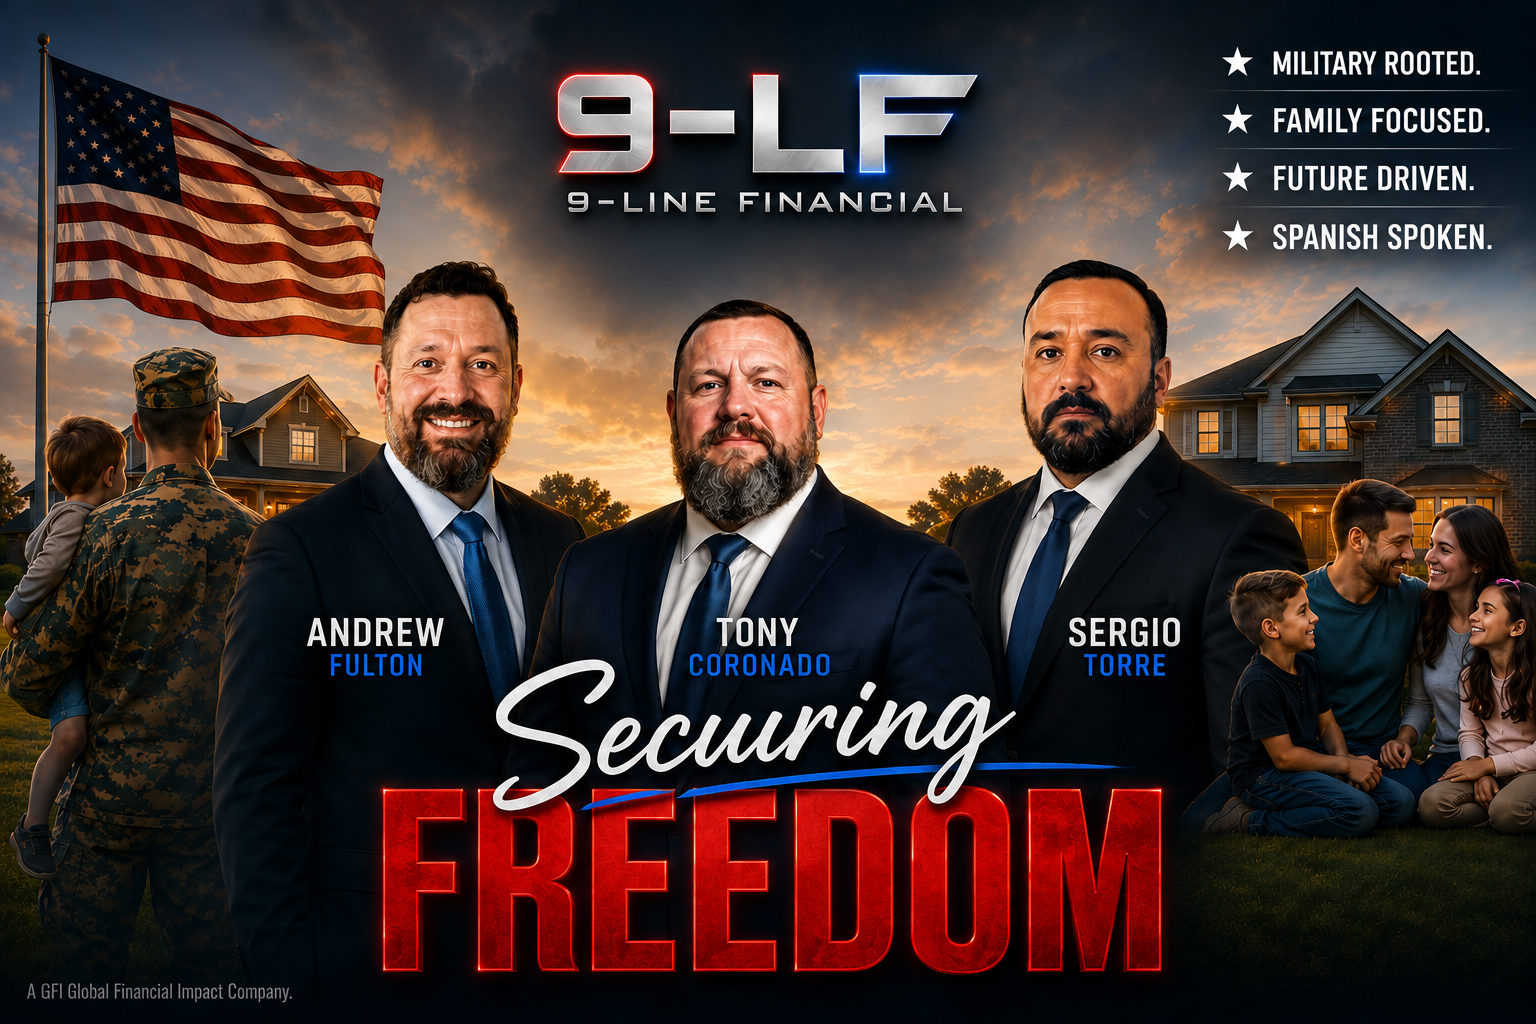
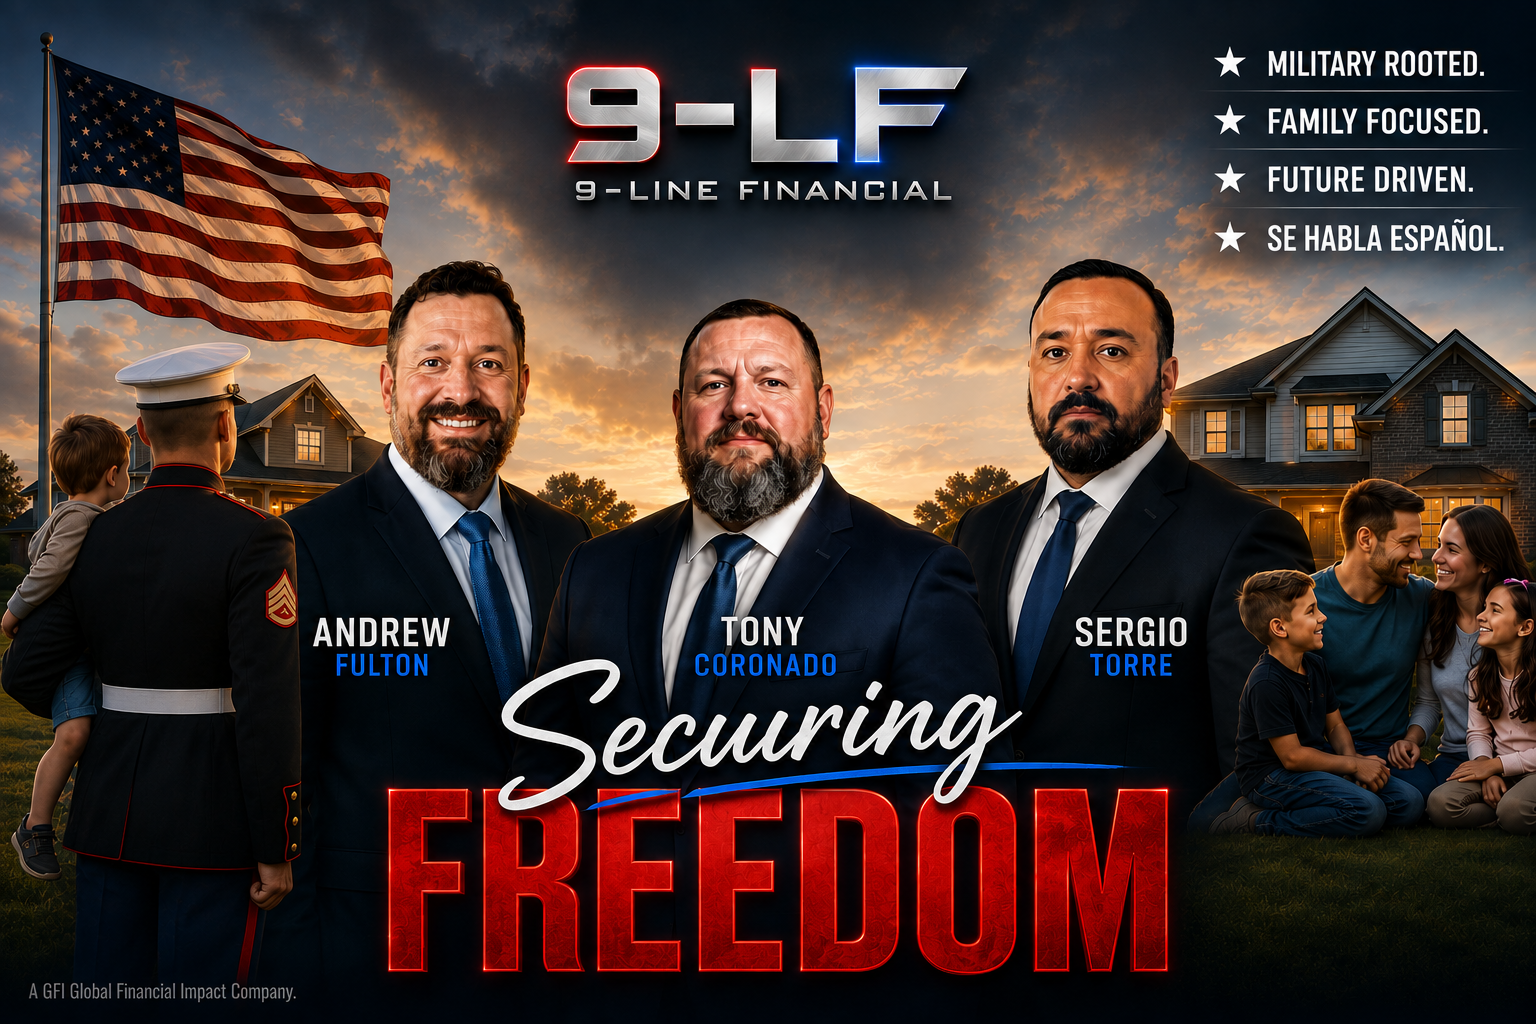
Add files via upload

diff --git a/index.html b/index.html
@@ -30,7 +30,7 @@
 </div>
 
 <section class="hero-banner">
-  <img src="hero-freedom.png" alt="9-LF — 9-Line Financial, a GFI Global Financial Impact Company. Andrew Fulton, Tony Coronado, Sergio Torre. Military rooted. Family focused. Future driven. Spanish spoken. Securing Freedom.">
+  <img src="hero-freedom.png" alt="9-LF — 9-Line Financial, a GFI Global Financial Impact Company. Andrew Fulton, Tony Coronado, Sergio Torre. Military rooted. Family focused. Future driven. Se habla español. Securing Freedom.">
 </section>
 
 <div class="ticker-wrap">
@@ -138,7 +138,7 @@
       <text x="350" y="223"><tspan x="350" dy="0">Mortgage</tspan><tspan x="350" dy="26">Protection</tspan></text>
       <text x="600" y="133"><tspan x="600" dy="0">Burial</tspan><tspan x="600" dy="26">Expenses</tspan></text>
       <text x="850" y="223"><tspan x="850" dy="0">Retirement</tspan><tspan x="850" dy="26">Planning</tspan></text>
-      <text x="1050" y="450"><tspan x="1050" dy="0">Legacy to</tspan><tspan x="1050" dy="26">Loved Ones /</tspan><tspan x="1050" dy="26">Charity</tspan></text>
+      <text x="1050" y="463"><tspan x="1050" dy="0">Legacy</tspan><tspan x="1050" dy="26">Building</tspan></text>
     </g>
 
     <!-- hub -->
@@ -154,11 +154,11 @@
   </div>
   <div class="orbit-hotspot" style="left:29.17%;top:37.1%;width:19.6%;height:38%;">
     <div class="orbit-dot">i</div>
-    <div class="orbit-tip"><strong>Mortgage Protection</strong>Makes sure the house payment doesn't disappear along with the income that was covering it.</div>
+    <div class="orbit-tip"><strong>Mortgage Protection</strong>Make sure your house doesn't disappear along with the income that was covering it.</div>
   </div>
   <div class="orbit-hotspot" style="left:50%;top:22.6%;width:19.6%;height:38%;">
     <div class="orbit-dot">i</div>
-    <div class="orbit-tip"><strong>Burial Expenses</strong>Covers funeral and final costs, so grieving family isn't stuck with the bill.</div>
+    <div class="orbit-tip"><strong>Burial Expenses</strong>A small investment today can spare your loved ones from unexpected expenses tomorrow.</div>
   </div>
   <div class="orbit-hotspot" style="left:70.83%;top:37.1%;width:19.6%;height:38%;">
     <div class="orbit-dot">i</div>
@@ -166,7 +166,7 @@
   </div>
   <div class="orbit-hotspot" style="left:87.5%;top:75.8%;width:19.6%;height:38%;">
     <div class="orbit-dot">i</div>
-    <div class="orbit-tip"><strong>Legacy to Loved Ones / Charity</strong>Leaves something behind — for family, or a cause that mattered — instead of nothing.</div>
+    <div class="orbit-tip"><strong>Legacy Building</strong>Generational wealth starts with your legacy.</div>
   </div>
   </div>
 
@@ -194,7 +194,7 @@ document.addEventListener('click', function(){
   <div class="section-head">
     <div class="eyebrow">How We Educate</div>
     <h2>Coverage Built Around Every Stage of Life</h2>
-    <p>Once you know <em>why</em> you need coverage, here's <em>what</em> that actually looks like. Tap a category below for the plain-English basics on each type of policy.</p>
+    <p>You know your why, let us show you how.</p>
   </div>
 
   <div class="category-grid">
@@ -206,7 +206,7 @@ document.addEventListener('click', function(){
         </svg>
       </div>
       <h3>Term Life Insurance</h3>
-      <p>Affordable protection for a set number of years — 10, 20, or 30.</p>
+      <p>Affordable protection for 10&ndash;40 years.</p>
       <span class="go">Explore &rarr;</span>
     </a>
 
@@ -229,7 +229,7 @@ document.addEventListener('click', function(){
         </svg>
       </div>
       <h3>Indexed Universal Life</h3>
-      <p>Flexible permanent coverage with growth tied to a market index.</p>
+      <p>Permanent coverage with tax free growth through retirement.</p>
       <span class="go">Explore &rarr;</span>
     </a>
 
@@ -244,7 +244,7 @@ document.addEventListener('click', function(){
         </svg>
       </div>
       <h3>Annuities</h3>
-      <p>Turn savings into guaranteed income for retirement.</p>
+      <p>Turn your life savings into a pension like income.</p>
       <span class="go">Explore &rarr;</span>
     </a>
 
@@ -259,16 +259,15 @@ document.addEventListener('click', function(){
       <span class="go">Explore &rarr;</span>
     </a>
 
-    <a class="cat-card" href="business-owner-strategies.html">
+    <a class="cat-card" href="juvenile-iul.html">
       <div class="cat-icon">
         <svg viewBox="0 0 64 64" width="30" height="30">
-          <rect x="10" y="24" width="44" height="30" rx="4" fill="none" stroke="#fff" stroke-width="4"/>
-          <path d="M22 24 V16 a4 4 0 0 1 4-4 h12 a4 4 0 0 1 4 4 v8" fill="none" stroke="#fff" stroke-width="4"/>
-          <line x1="10" y1="36" x2="54" y2="36" stroke="#fff" stroke-width="4"/>
+          <circle cx="32" cy="18" r="10" fill="#fff"/>
+          <path d="M14 54 C14 40 22 32 32 32 C42 32 50 40 50 54" fill="none" stroke="#fff" stroke-width="5" stroke-linecap="round"/>
         </svg>
       </div>
-      <h3>Business Owner Strategies</h3>
-      <p>Buy-sell agreements, key person coverage &amp; succession planning for owners.</p>
+      <h3>Juvenile IUL</h3>
+      <p>Permanent coverage with tax free growth through retirement.</p>
       <span class="go">Explore &rarr;</span>
     </a>
 

diff --git a/juvenile-iul.html b/juvenile-iul.html
@@ -1,0 +1,90 @@
+<!DOCTYPE html>
+<html lang="en">
+<head>
+<meta charset="UTF-8">
+<meta name="viewport" content="width=device-width, initial-scale=1.0">
+<title>Juvenile IUL — GFI Team Hub</title>
+<link rel="preconnect" href="https://fonts.googleapis.com">
+<link href="https://fonts.googleapis.com/css2?family=Oswald:wght@500;600;700&family=Inter:wght@400;500;600&display=swap" rel="stylesheet">
+<link rel="stylesheet" href="styles.css">
+<link rel="icon" type="image/png" href="favicon-9lf-v2.png">
+</head>
+<body>
+<div class="topbar">
+  <div class="topbar-inner">
+    <a class="brand" href="index.html">
+      <img class="brand-logo" src="logo-9lf-navy.png" alt="9-LF — 9-Line Financial">
+    </a>
+    <nav class="mainnav">
+      <a href="index.html" class="active">Home</a>
+      <a href="about.html">About Us</a>
+      <a href="team.html">Meet the Team</a>
+      <a href="announcements.html">Announcements</a>
+      <a href="events.html">Events</a>
+    </nav>
+    <button class="nav-toggle" aria-label="Toggle menu" aria-expanded="false" onclick="this.classList.toggle('is-active'); document.querySelector('.mainnav').classList.toggle('open'); this.setAttribute('aria-expanded', this.classList.contains('is-active'));">
+      <span></span><span></span><span></span>
+    </button>
+  </div>
+</div>
+<section class="page-hero" style="background:linear-gradient(135deg,#0A1A3C,#1E4FD8);">
+  <div class="page-hero-inner">
+    <div class="kicker">Coverage Category</div>
+    <h1>Juvenile Indexed Universal Life (IUL)</h1>
+    <p class="tag">Permanent coverage started early, so tax-free growth has decades to work in their favor.</p>
+  </div>
+</section>
+<div class="section">
+  <h2>What it is</h2>
+  <p class="section-sub">A Juvenile IUL is a permanent life insurance policy purchased on a child's life. It locks in low-cost, lifelong coverage while they're young and healthy, and builds cash value with tax-free growth they can access later — for college, a first home, or a head start on retirement.</p>
+  <div class="topic-grid">
+    <div class="topic-card">
+      <h3>Who it's for</h3>
+      <p>Parents or grandparents who want to give a child a financial head start — and lock in insurability before age or health make coverage more expensive.</p>
+    </div>
+    <div class="topic-card">
+      <h3>How it works</h3>
+      <p>Premiums build cash value inside the policy, growing tax-free and tied to a market index, while the child is covered for life.</p>
+    </div>
+    <div class="topic-card">
+      <h3>Where it can help later</h3>
+      <p>The policy's cash value can be accessed as an adult for college, a first home, or supplemental retirement income.</p>
+    </div>
+    <div class="topic-card">
+      <h3>Talking point</h3>
+      <p>"The best time to start this is the day it's cheapest — while they're young and healthy."</p>
+    </div>
+  </div>
+
+  <div class="callout">
+    <h4>Compliance reminder</h4>
+    <p>All client-facing language on this page is a placeholder and must be reviewed and approved before use in the field.</p>
+  </div>
+</div>
+<footer>
+  <div class="footer-inner">
+    <img class="footer-logo" src="logo-9lf-navy.png" alt="9-LF — 9-Line Financial">
+    <div class="footer-copyright">&copy; 2026 9-Line Financial (9-LF). All rights reserved.</div>
+  </div>
+  <div class="parent-company">
+    <span>A proud part of</span>
+    <a href="https://globalfinancialimpact.com/" target="_blank" rel="noopener">
+      <img src="gfi-parent-logo.png" alt="GFI Global Financial Impact">
+    </a>
+  </div>
+  <div class="powered-by">Powered by <a href="https://www.megamissionmedia.com" target="_blank" rel="noopener"><strong>Mega Mission Media</strong></a></div>
+</footer>
+
+
+<script>
+  document.addEventListener('click', function(e){
+    if (e.target.closest('.mainnav a')) {
+      var nav = document.querySelector('.mainnav');
+      var toggle = document.querySelector('.nav-toggle');
+      if (nav) nav.classList.remove('open');
+      if (toggle) toggle.classList.remove('is-active');
+    }
+  });
+</script>
+</body>
+</html>
